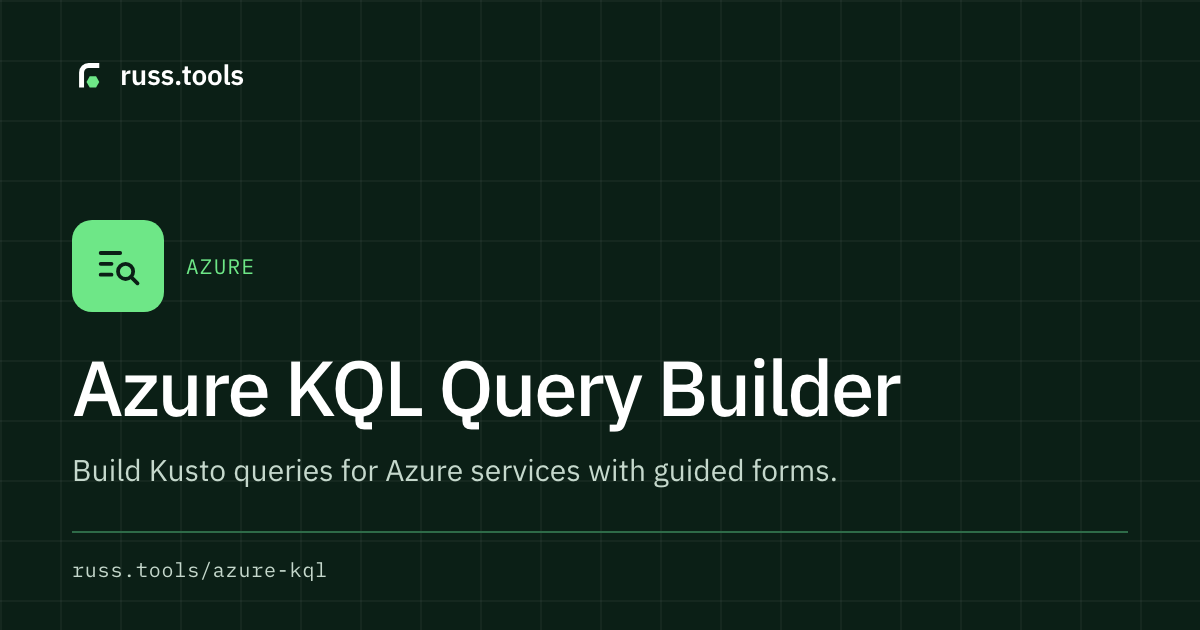
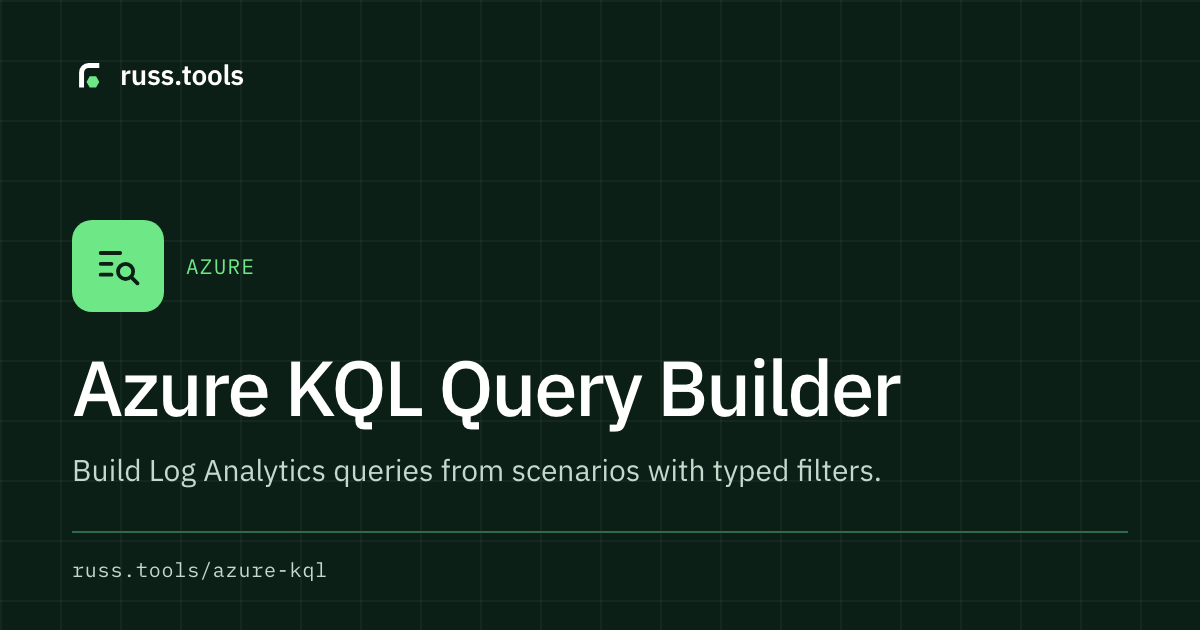
📝 docs(azure-kql): help, ledger and session log for the rebuild
Rewrites the tool's help, records every visible difference in
BEHAVIOR_CHANGES.md, adds the Session Log entry, regenerates the OG card,
and drops zustand and the shared prism-kql grammar, which had no other user.

Changed region(s): [[0.1233, 0.7238, 0.74, 0.7841]]

diff --git a/src/tools/azure-kql/lib/kql.test.js b/src/tools/azure-kql/lib/kql.test.js
@@ -1,5 +1,5 @@
 import { describe, expect, it } from 'vitest';
-import { datetimeLiteral, identifier, isTimespan, numberLiteral, stringLiteral, verbatimLiteral } from './kql.js';
+import { datetimeLiteral, isIdentifier, isTimespan, numberLiteral, stringLiteral, verbatimLiteral } from './kql.js';
 
 describe('stringLiteral', () => {
   it('escapes the quote that used to break out of the literal', () => {
@@ -50,8 +50,9 @@ describe('the other literals', () => {
     expect(['', '0h', '24', '1w', '24h) | take 1', 'h'].some(isTimespan)).toBe(false);
   });
 
-  it('refuses a column name that is not an identifier', () => {
-    expect(identifier('_ResourceId')).toBe('_ResourceId');
-    expect(() => identifier('a b')).toThrow();
+  it('knows an identifier from an expression', () => {
+    expect(isIdentifier('_ResourceId')).toBe(true);
+    expect(isIdentifier('a b')).toBe(false);
+    expect(isIdentifier('T | take 1')).toBe(false);
   });
 });

diff --git a/src/utils/prismLoader.js b/src/utils/prismLoader.js
@@ -38,10 +38,6 @@ export const loadPrismLanguages = async (languages) => {
         case 'hcl':
           await import('prismjs/components/prism-hcl');
           break;
-        case 'kql':
-          // KQL is custom, load from our custom definition
-          await import('./prism-kql');
-          break;
         default:
           console.warn(`Unknown language: ${language}`);
           return;

diff --git a/src/tools/azure-kql/lib/kql.js b/src/tools/azure-kql/lib/kql.js
@@ -37,8 +37,3 @@ export function isTimespan(value) {
 export function isIdentifier(value) {
   return IDENTIFIER.test(String(value));
 }
-
-export function identifier(name) {
-  if (!isIdentifier(name)) throw new Error(`Not a column or table name: ${name}`);
-  return name;
-}

diff --git a/docs/plans/redesign-plan.md b/docs/plans/redesign-plan.md
@@ -3379,3 +3379,94 @@ question, the key set) and against a refusal.
 Left for whoever merges the parallel branches: the test and tool counts in
 `AGENTS.md` (other branches add tests and tools too, so they want counting
 once).
+
+### 2026-11-14 — The Azure KQL Query Builder, rebuilt
+
+The owner's brief was one line: the tool is horrible, rebuild it from the ground up.
+No specifics, so the first job was finding out what "horrible" was made of.
+
+**What was wrong.** Using it at 390px and 1440px turned up more than taste:
+
+- Application Gateway could not produce a query at all. Its own default
+  (`Category: ApplicationGatewayAccessLog`) failed its own validation, because the
+  template's options were strings and the validator read `option.value`. The same
+  mismatch drew two dropdowns with four blank options.
+- The AVD client-address filter named `ClientIPAddress`, a column `WVDConnections` does
+  not have.
+- Nothing was escaped: a user name of `bob" or 1==1 //` closed the literal.
+- Editing a favourite deleted it. The handler removed it from the store and pushed the
+  edited copy onto the props array in a timeout.
+- The flow was four tabs and a Generate button around four templates of one shape.
+  At 390px the query began 1,474px down the page, after a button press.
+- Labels were regexed out of column names ("Client I P Address", "http Status_d"), the
+  query block was a hard-coded dark Prism theme in both site themes, and the page still
+  used the two-column split that was withdrawn everywhere else.
+
+**The shape of the replacement.** One column, no Generate button: service and scenario,
+time range and rows, filters, and the query directly under them, rebuilt on every
+change, with one sentence saying what it returns. A second tab, **Write KQL**, is a
+plain editor with the same highlighting; **Edit as KQL** carries a built query into it.
+Saved and recent queries sit below as two lists. The order is controls then query on
+purpose: with the query above the filters, a filter becoming valid adds a line above
+the field being typed in and moves it.
+
+**Typed filters, from a schema that is data.** `scripts/refresh-kql-schemas.mjs` reads
+each table's page in the Azure Monitor table reference on Microsoft Learn and writes
+`src/data/microsoft/azure-monitor-tables.json`: 28 tables and 997 columns with their
+types. `lib/columns.js` adds only what the reference cannot say in a type: which
+string columns are IP addresses or ports, and which take one of a documented set of
+values. Operators follow the type. A value that is wrong says why and its filter is
+left out, so the output always parses; a value that is right is written through
+`stringLiteral` or `verbatimLiteral`, which follow the Kusto string rules as Learn
+states them. `catalog.test.js` fails if any scenario, filter or note names a column
+the reference does not list, and it earned its place inside the first hour by catching
+a `DestinationIp` note on `AZFWApplicationRule`, which has no such column.
+
+**Coverage.** Twelve services and 73 scenarios, in three shapes: rows, top-N
+summaries and time charts whose bucket follows the time range. Every scenario's exact
+query is pinned in `lib/fixtures/scenarios.json`, read once by eye before pinning.
+
+**Three things left out, each on the evidence.**
+
+- *Open in Log Analytics.* Microsoft documents no deep-link format. The ones the
+  portal emits (`.../LogsBlade/resourceId/<id>/source/LogsBlade.AnalyticsShareLinkToQuery/q/<gzip+base64>`)
+  are known only from community posts and all need a workspace resource ID.
+- *A pipeline diagram.* The query is already a top-to-bottom pipeline of five to
+  eight lines and the sentence above it does the explaining. A diagram would restate
+  it and push it off a phone.
+- *NSG flow logs.* `AzureNetworkAnalytics_CL` is a custom table outside the table
+  reference. VNet flow logs (`NTANetAnalytics`) are in.
+
+**Where the documentation disagrees with itself, the query hedges.** The traffic
+analytics schema page gives `FlowStatus` as both a letter and a word depending on the
+section, so the denied-flows scenario filters `in ("Denied", "D")`. The activity log
+schema says a status is `Failed`; workspaces also hold `Failure`. That scenario takes
+both. Sets of values documented in lower case (`member`, `failure`) compare with `=~`
+because the data is not reliably that case.
+
+**Contracts.** The three routes and the four old ids resolve. A share link and a store
+captured from the old tool in a browser, before a line changed, are a fixture replayed
+by unit and e2e tests. Old data is read once into `rt:azure-kql:library` and left
+where it was. Custom templates could not survive as templates, since their fields were
+free-text column names with nothing behind them, so each becomes a saved KQL query.
+The ledger entry lists every visible difference.
+
+**Smaller things.** `build_kql_query` is registered through `useWebMCPTool` and lists
+the catalogue when called with nothing. Radix's empty `onValueChange` echo, which bit
+the Subnet Calculator, is guarded on every select here. `zustand` had no other user and
+is removed, as is the shared `prism-kql.js` grammar nothing loaded. The five
+`exhaustive-deps` warnings went with the old island: lint is 0 errors, 6 warnings.
+
+Verified on the branch with `main` (through PR 41) merged in: `pnpm test` 1846 passing,
+`pnpm lint` 0 errors and 6 warnings (was 11), `pnpm build`, `PW_PORT=8829 pnpm test:e2e`
+93 passing, `pnpm generate:docs` and `pnpm generate:og` run (one card changed). The tool
+was used in a browser at 390px and 1440px in both themes: building, an invalid then a
+valid filter, a custom range, a time chart, saving, renaming, deleting, copying, sharing,
+and opening the captured old share link and an old store with a favourite, a history
+entry and a custom template.
+
+Not verified: no query was run against a real Log Analytics workspace. Names are from
+Microsoft Learn; data in a given workspace depends on its diagnostic settings. The phone
+checks were an emulated 390px touch viewport, not a handset.
+
+Left for whoever merges the parallel branches: the test and tool counts in `AGENTS.md`.

diff --git a/docs/BEHAVIOR_CHANGES.md b/docs/BEHAVIOR_CHANGES.md
@@ -24,6 +24,92 @@ Two rules:
 
 ## Landed
 
+### The Azure KQL Query Builder is rebuilt (2026-11-14)
+
+| | |
+|---|---|
+| **Where** | `src/tools/azure-kql/` (everything), `src/data/microsoft/azure-monitor-tables.json` |
+| **Pinned by** | `src/tools/azure-kql/lib/*.test.js`, `e2e/deeplinks.spec.js` |
+
+The tool was replaced, not ported, so nearly everything a user sees changed. What
+follows is every difference that a link, a saved entry or a habit could notice.
+
+**Still true.** `/azure-kql`, `/azure-kql/:service` and `/azure-kql/:service/:template`
+resolve, and the four ids the old tool had (`azure-firewall/basic`,
+`azure-firewall/application`, `azure-virtual-desktop/basic`,
+`azure-application-gateway/basic`) open the same table they did. A share link made by
+the old tool still restores its service, template, time range, limit and filters; one
+captured from the old tool before the rebuild is pinned in
+`lib/fixtures/captured-2026-11-14.json` and replayed by a unit test and an e2e test.
+The band button is still called **Share Configuration**.
+
+**The query text is different for the same input.**
+
+- There is no Generate button. The query is rebuilt on every change.
+- `TimeGenerated > ago(24h)` where it was `>=`; `| top N by TimeGenerated desc` where it
+  was `| order by TimeGenerated desc` then `| limit N`.
+- A new session starts at 100 rows, not 1,000. A link or saved entry keeps its own limit.
+- Values are escaped. `bob" or 1==1 //` used to end the string literal; it is now one
+  literal.
+- A value that is not valid for its column no longer blocks the query. That filter is
+  left out, with the reason shown under it, and the rest is built.
+- Columns documented as taking one of a set of values compare with `=~` and `in~`.
+- `azure-virtual-desktop/basic` and `azure-application-gateway/basic` now `project` a
+  set of columns; both used to return every column.
+
+**Two old filters were wrong and are corrected on the way in.**
+
+- The AVD template filtered on `ClientIPAddress`. `WVDConnections` has no such column;
+  the reference has `ClientSideIPAddress`. Old links and saved entries are mapped to it.
+- The AVD "State" list offered `Failed`, which is not a connection state. An old entry
+  carrying it opens with that filter flagged and left out.
+
+**Application Gateway.** The service now opens on `AGWAccessLogs`. The old
+`AzureDiagnostics` query is still there as **Access log (AzureDiagnostics)**, id `basic`.
+With the old tool that template could not generate at all (its own default failed its own
+validation), so no saved query for it can exist; a share link for it restores.
+
+**Open in Portal is gone.** It built a URL in a format Microsoft does not document.
+Every Logs link the portal itself produces needs a workspace resource ID, which this
+tool does not have.
+
+**Favourites, history and templates became two lists.**
+
+- Favourites and custom templates are **Saved**; history is **Recent**.
+- The template editor is removed. A custom template is converted once into a saved KQL
+  query holding what the old generator would have written for it (table, the last 24
+  hours, its aggregation, order, limit and projection). Its custom fields are not
+  carried: they were free-text column names with no schema behind them.
+- A favourite keeps its name, description and tags. A favourite still called
+  `azure-firewall - basic` (the old default) is shown as `Azure Firewall: Network rule
+  log`. Names can be changed; descriptions and tags are shown but can no longer be
+  edited. The old edit dialog deleted the favourite it was editing.
+- Recent records a query when it is copied or downloaded, since nothing is "generated"
+  any more. It still holds 50.
+- Deleting a saved query and clearing Recent can be undone from the notice.
+
+**Storage.** Everything lives in one new slot, `rt:azure-kql:library`. On first load it
+is filled from `rt:azure-kql:store`, `rt:azure-kql:custom-templates` and the older
+`azure-kql-custom-templates`, none of which is written to or removed. The read happens
+once: something saved afterwards by a cached copy of the old tool does not come across.
+The manifest now declares all three namespaced slots, so the Saved data page clears
+`custom-templates` too, which it could not before.
+
+**Share links.** New links use the site codec (`src/core/sharelink.js`, untouched) with a
+`v: 2` payload, and are available in Write KQL as well, carrying the text. Old links
+were plain `btoa` JSON; they are read first as that, and a `+` that a query string
+turned into a space is put back.
+
+**Deep links.** A scenario id the service does not have opens the service's first
+scenario; a service id that does not exist opens the empty page. A legacy custom
+template id in the scenario position opens the saved query it became.
+
+**Also.** Download is named `<service>-<scenario>.kql` with no timestamp. The scenario
+names changed (**Network Rule Query** is **Network rule log**, **Application Rule Query**
+is **Application rule log**), and `e2e/deeplinks.spec.js` was changed to match. A
+`build_kql_query` WebMCP tool is registered. `zustand` and `src/utils/prism-kql.js` had
+no other user and are removed.
+
 ### Password Generator: the exclusions now hold for every character (2026-11-14)
 
 Each enabled character class is guaranteed one character in a password. That

diff --git a/docs/tools/azure-kql/README.md b/docs/tools/azure-kql/README.md
@@ -15,20 +15,18 @@ There is no Generate button and nothing is sent anywhere: the query is built in 
 
 ## What it covers
 
-| Area | Service | Tables |
-|---|---|---|
-| Network | Azure Firewall | `AZFWNetworkRule`, `AZFWApplicationRule`, `AZFWNatRule`, `AZFWDnsQuery`, `AZFWThreatIntel`, `AZFWIdpsSignature` |
-| Network | Application Gateway | `AGWAccessLogs`, `AGWFirewallLogs`, and `AzureDiagnostics` for gateways still logging there |
-| Network | VNet flow logs | `NTANetAnalytics` (traffic analytics) |
-| Identity | Entra ID sign-ins | `SigninLogs`, `AADNonInteractiveUserSignInLogs`, `AADServicePrincipalSignInLogs` |
-| Identity | Entra ID audit log | `AuditLogs` |
-| Platform | Activity log | `AzureActivity` |
-| Platform | Key Vault | `AZKVAuditLogs` |
-| Platform | Storage (blobs) | `StorageBlobLogs` |
-| Compute | App Service | `AppServiceHTTPLogs`, `AppServiceConsoleLogs`, `AppServiceAppLogs` |
-| Compute | Kubernetes (AKS) | `ContainerLogV2`, `KubeEvents`, `KubePodInventory`, `AKSAudit`, `AKSControlPlane` |
-| Compute | Azure Virtual Desktop | `WVDConnections`, `WVDErrors` |
-| Compute | Virtual machines | `Heartbeat` |
+- **Azure Firewall**: `AZFWNetworkRule`, `AZFWApplicationRule`, `AZFWNatRule`, `AZFWDnsQuery`, `AZFWThreatIntel`, `AZFWIdpsSignature`
+- **Application Gateway**: `AGWAccessLogs`, `AGWFirewallLogs`, and `AzureDiagnostics` for gateways still logging there
+- **VNet flow logs**: `NTANetAnalytics` (traffic analytics)
+- **Entra ID sign-ins**: `SigninLogs`, `AADNonInteractiveUserSignInLogs`, `AADServicePrincipalSignInLogs`
+- **Entra ID audit log**: `AuditLogs`
+- **Activity log**: `AzureActivity`
+- **Key Vault**: `AZKVAuditLogs`
+- **Storage (blobs)**: `StorageBlobLogs`
+- **App Service**: `AppServiceHTTPLogs`, `AppServiceConsoleLogs`, `AppServiceAppLogs`
+- **Kubernetes (AKS)**: `ContainerLogV2`, `KubeEvents`, `KubePodInventory`, `AKSAudit`, `AKSControlPlane`
+- **Azure Virtual Desktop**: `WVDConnections`, `WVDErrors`
+- **Virtual machines**: `Heartbeat`
 
 Scenarios come in three shapes: **rows** (newest first, or slowest first), **top-N summaries** (counts by caller, by rule, by status), and **time charts** (a count per bucket, with the bucket sized to the time range).
 

diff --git a/AGENTS.md b/AGENTS.md
@@ -183,7 +183,7 @@ lockfile is `pnpm-lock.yaml`. A stale, gitignored `package-lock.json` may linger
 - `pnpm test:e2e` — Playwright deep-link, help and API matrix (91 tests) against
   `wrangler pages dev`. It reuses whatever is already listening on :8788, so a stale
   server gets tested instead of the build — `PW_PORT=8798 pnpm test:e2e` moves it.
-- `pnpm lint` — ESLint. **0 errors, and CI blocks on that.** 11 warnings remain
+- `pnpm lint` — ESLint. **0 errors, and CI blocks on that.** 6 warnings remain
   (exhaustive-deps and react-refresh) — the raw-palette and off-scale-type warnings are
   all cleared. Don't add errors, and don't let the warning count climb.
 - `pnpm generate:sitemap` — regenerate `public/sitemap.xml` **from the manifests**
